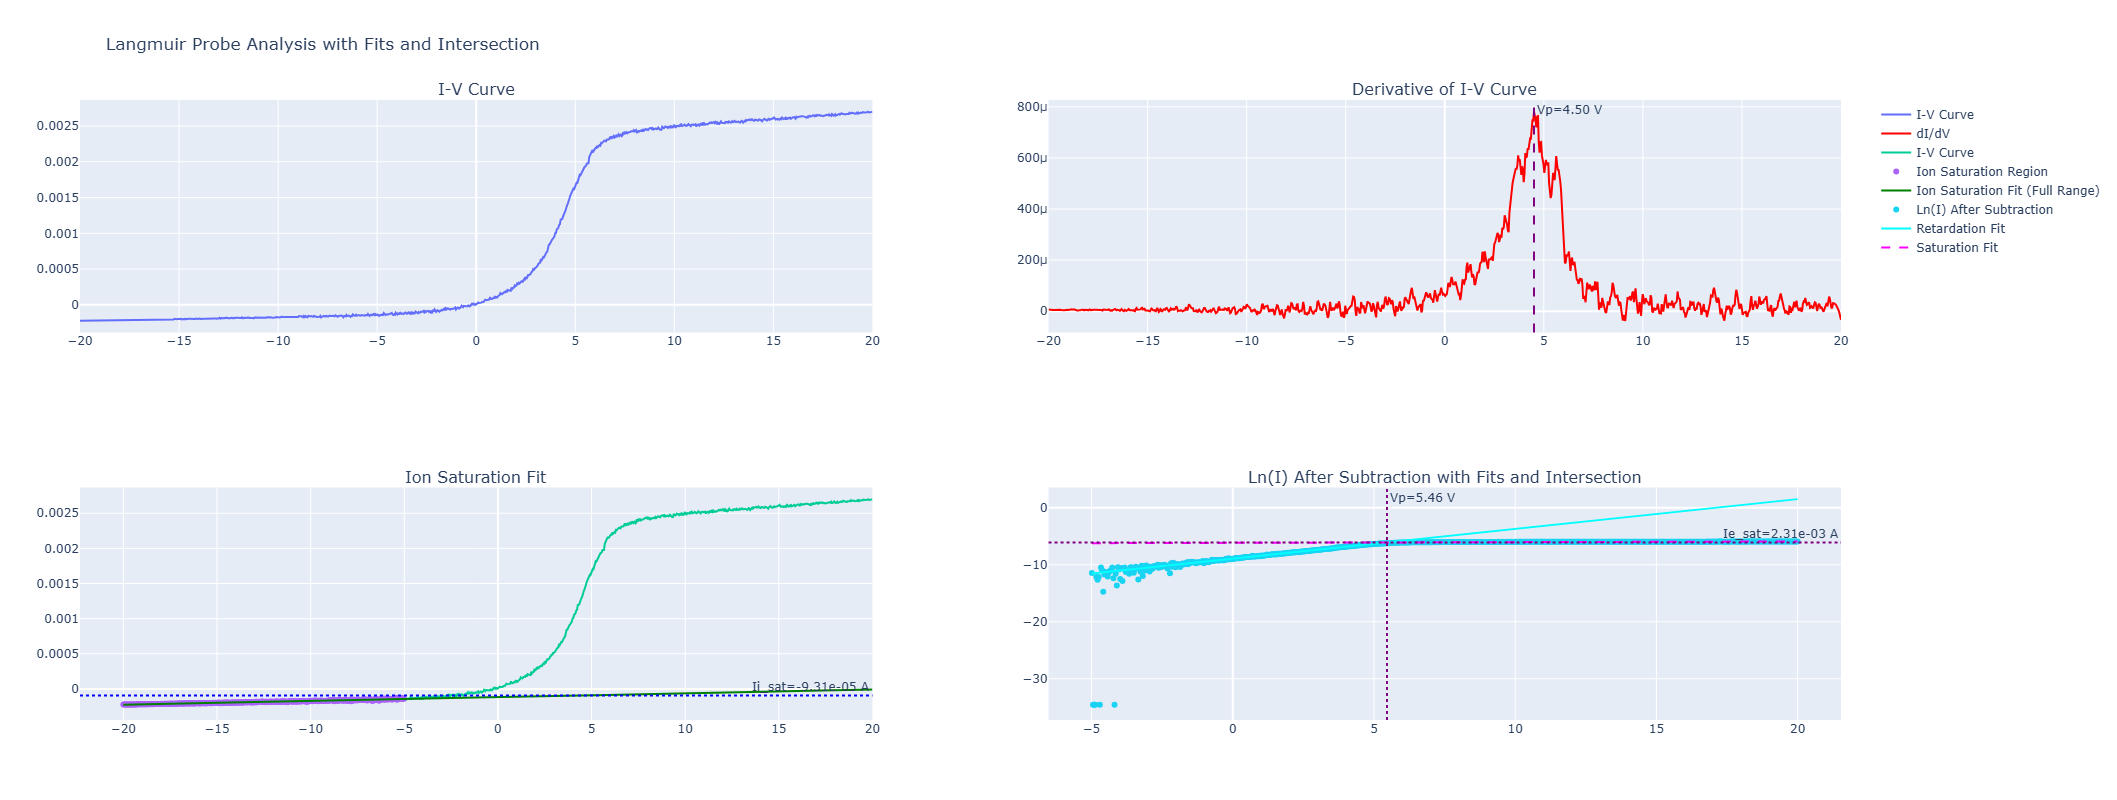
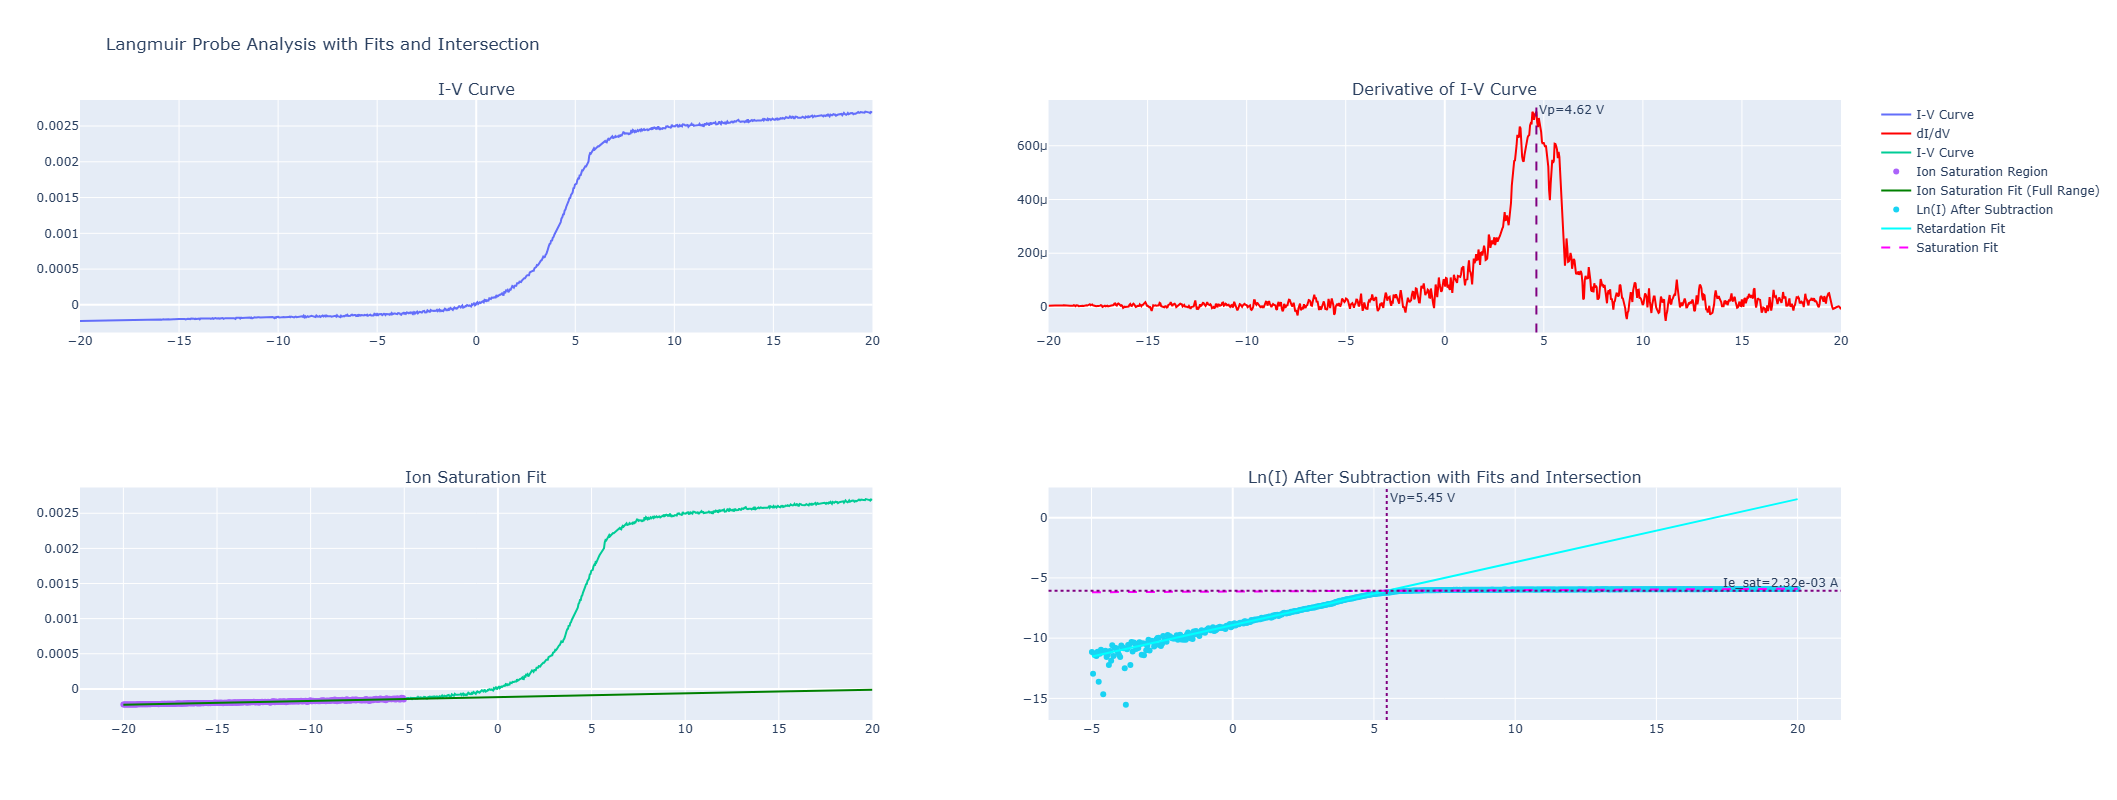
update to ProbeA calculation for all scripts

diff --git a/MLM-IV-Analysis.py b/MLM-IV-Analysis.py
@@ -99,7 +99,10 @@ Te = abs(-1 / retardation_fit_params[0])  # Electron temperature in eV
 Te_K = max(Te * 11600, 1e-10)  # Ensure Te_K is positive and non-zero  # Convert electron temperature to Kelvin
 Ie_sat = np.exp(intersection_current)  # Electron saturation current
 
-Aprobe = np.pi * (3e-3 / 2) ** 2  # Probe area in m^2
+ProbeDia = 2.5e-3  # Probe diameter in m
+ProbeLength = 0.000275  # Probe length in m (added length parameter)
+Aprobe = (2 * np.pi * (ProbeDia / 2) * ProbeLength) + (np.pi * (ProbeDia / 2) ** 2)  # Probe area including cylindrical surface and end area in m^2
+
 ve_th = np.sqrt(8 * kb * Te_K / (np.pi * me))  # Thermal velocity of electrons
 ne = Ie_sat / (0.25 * e * ve_th * Aprobe)  # Electron density
 

diff --git a/MLM-IV-TheoryPlot.py b/MLM-IV-TheoryPlot.py
@@ -10,8 +10,10 @@ me = 9.11e-31  # Electron mass in kg
 mi = 1.67e-27  # Ion mass (assumed proton) in kg
 
 # Experimental parameters
-ProbeDia = 3e-3  # Probe diameter in m
-Aprobe = np.pi * (ProbeDia / 2) ** 2  # Probe area in m^2
+ProbeDia = 2.5e-3  # Probe diameter in m
+ProbeLength = 0.000275  # Probe length in m (added length parameter)
+Aprobe = (2 * np.pi * (ProbeDia / 2) * ProbeLength) + (np.pi * (ProbeDia / 2) ** 2)  # Probe area including cylindrical surface and end area in m^2
+
 ne = 1e16  # Electron density in m^-3
 ni = 1e16  # Ion density in m^-3
 

diff --git a/MLM-IV-SimPlot.py b/MLM-IV-SimPlot.py
@@ -18,8 +18,9 @@ me = 9.11e-31  # Electron mass in kg
 mi = 1.67e-27  # Ion mass (assumed proton) in kg
 
 # Experimental parameters
-ProbeDia = 3e-3  # Probe diameter in m
-Aprobe = np.pi * (ProbeDia / 2) ** 2  # Probe area in m^2
+ProbeDia = 2.5e-3  # Probe diameter in m
+ProbeLength = 0.000275  # Probe length in m (added length parameter)
+Aprobe = (2 * np.pi * (ProbeDia / 2) * ProbeLength) + (np.pi * (ProbeDia / 2) ** 2)  # Probe area including cylindrical surface and end area in m^2
 ne = 1e16  # Electron density in m^-3
 ni = 1e16  # Ion density in m^-3
 

diff --git a/docs/index.md b/docs/index.md
@@ -1,22 +1,28 @@
+# Title: MLM-IV Documentation
 
----
-title: "MLM-IV Documentation"
-usemathjax: true
----
-Test 2
-This is an example of inline math: $$E=mc^2$$.
+#### Authors: Lars Thomsen, Kawin Soikum, and Soiwisa Soikum
 
-$$ \sum_{i=0}^n i^2 = \frac{(n^2+n)(2n+1)}{6} $$
+Affiliation: [GNACODE.INC](www.gnacode.com), Medicine Hat, Alberta, Canada
 
-\Gamma \Delta \Omega …
+Address for correspondence: LT@gnacode.com
 
-Here is an example of block math:
+We have four programs for use in simulation and analysis of Langmuir IV Probes based on Merlino RL, [American Journal of Physics, Vol 75, issue 12, pages 1078-1085](https://pubs.aip.org/aapt/ajp/article-abstract/75/12/1078/899100/Understanding-Langmuir-probe-current-voltage?redirectedFrom=fulltext):
 
-$$\int_0^\infty e^{-x^2} dx = \frac{\sqrt{\pi}}{2}$$
+1. [**MLM-IV-TheoryPlots**](MLM-TheoryPlots.md), this program plots theoretical plots as outlined by Merlino 2007, and with an overlay of leakage current and capacitive artifacts. In general, it is based in equation 3, and 6 from the paper, and data from 
+2. [**MLM-IV-SimPlot**](MLM-IV-SimPlot.md), this program generates IV curves with embedded leakage current and capacitive effects, and subjected to a gaussian noise to create a realistic data set. The data are output in the [**NPY data format**](NPY-Data-Format.md) which is compatible with [**MLM-IV-Analysis**](MLM-IV-Analysis.md) and other analysis packages as e.g. [**PlasmaPy**](https://www.plasmapy.org/)
+3. [**MLM-IV-Analysis**](MLM-IV-Analysis.md)
+4. [**MLM-IV-EEDF-Analysis**](MLM-IV-EEDF-Analysis.md)
 
-Another formula:
-**The Cauchy-Schwarz Inequality**
-$$\left( \sum_{k=1}^n a_k b_k \right)^2 \leq \left( \sum_{k=1}^n a_k^2 \right) \left( \sum_{k=1}^n b_k^2 \right)$$
+(N.B. MLM stands for "Merlino Langmuir" referring to the 2007 Am.J.Physics paper)
+
+The documentation for each individual program can be found by clicking on the link in the list above. Here we will outline some general features. The programs are written in Python 3.11. and the requirements.txt file contains a list over the Python libraries and their versions required to run the program. If the programs are downloaded and installed using Git (see [Installation](installation.md))
+
+The NPY file format generated by the [**MLM-IV-SimPlot**](MLM-IV-SimPlot.md) is described here: [**NPY file format**](NPY-Data-Format.md)
+
+This program is provided under a [**MIT LICENSE**](MIT-license.md)
+
+Please give [**acknowledgement**](Acknowledgement.md) on use
+
 
 
 
